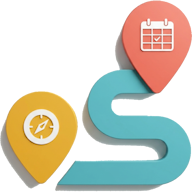
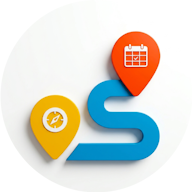
Correction ergonomique lors de l'ajout d'un POI en utilisant le géoréférencement

diff --git a/pvi.html b/pvi.html
@@ -581,9 +581,9 @@
   <script>
     if ('serviceWorker' in navigator) {
       window.addEventListener('load', () => {
-        navigator.serviceWorker.register('./sw.js', { scope: './' })
-        .then((reg) => console.log('Service Worker enregistré avec succès ! Scope:', reg.scope))
-        .catch((err) => console.error('Échec enregistrement Service Worker:', err));
+        navigator.serviceWorker.register('sw.js').catch(err => {
+          console.log('Service Worker skipped/failed', err);
+        });
       });
     }
 
@@ -620,7 +620,7 @@
     let mapMarkers = [];
     let routePolyline = null;
     let mapPickMode = null;
-    let shouldFitBoundsOnce = true; // Drapeau pour exécuter le fitBounds une seule fois au chargement/import
+    let shouldFitBoundsOnce = true;
 
     function saveToLocalStorage() {
       try {
@@ -698,7 +698,6 @@
         });
       }
 
-      // Restauration du mode d'affichage et de l'onglet actif au démarrage
       switchViewMode(appState.viewMode || 'designer');
       switchLeftTab(appState.activeTab || 'structure');
       renderApp();
@@ -1849,7 +1848,6 @@
         routePolyline = L.polyline(allTripCoords, { color: '#6366f1', weight: 4, dashArray: '8, 8', opacity: 0.8 }).addTo(map);
       }
 
-      // --- Cadrage automatique unique au démarrage ou après un import ---
       if (shouldFitBoundsOnce) {
         let allPoints = [];
         if (appState.departurePoint) allPoints.push([appState.departurePoint.lat, appState.departurePoint.lng]);
@@ -1861,7 +1859,7 @@
         if (allPoints.length > 0) {
           map.fitBounds(allPoints, { padding: [50, 50], maxZoom: 13 });
         }
-        shouldFitBoundsOnce = false; // Désactive l'ajustement automatique pour la suite de la navigation
+        shouldFitBoundsOnce = false;
       }
     }
 
@@ -2105,13 +2103,15 @@
       renderApp();
     }
 
-    function openSpotModal() {
+    function openSpotModal(defaultName = '', defaultDesc = '') {
       document.getElementById('spotForm').reset();
       document.getElementById('spotId').value = '';
       document.getElementById('spotPhotoPreview').classList.add('hidden');
       delete document.getElementById('spotForm').dataset.imageBase64;
       document.getElementById('spotModalTitle').innerText = "Ajouter un Spot";
       populateSpotTargetSelect();
+      if (defaultName) document.getElementById('spotName').value = defaultName;
+      if (defaultDesc) document.getElementById('spotDesc').value = defaultDesc;
       openModal('spotModal');
     }
 
@@ -2188,7 +2188,7 @@
       renderApp();
     }
 
-    function openHotelModal() {
+    function openHotelModal(defaultName = '', defaultDesc = '') {
       if (appState.zones.length === 0) {
         alert("Veuillez d'abord créer au moins une zone avant d'ajouter un hôtel !");
         return;
@@ -2199,6 +2199,8 @@
       document.getElementById('hotelModalTitle').innerText = "Ajouter un Hébergement";
       populateHotelZoneSelect();
       document.getElementById('hotelZoneSelect').value = '';
+      if (defaultName) document.getElementById('hotelName').value = defaultName;
+      if (defaultDesc) document.getElementById('hotelDesc').value = defaultDesc;
       openModal('hotelModal');
     }
 
@@ -2268,11 +2270,13 @@
       renderApp();
     }
 
-    function openBonPlanModal() {
+    function openBonPlanModal(defaultName = '', defaultDesc = '') {
       document.getElementById('bonPlanForm').reset();
       document.getElementById('bonPlanId').value = '';
       document.getElementById('bonPlanModalTitle').innerText = "Ajouter un Bon Plan";
       populateBonPlanTargetSelect();
+      if (defaultName) document.getElementById('bonPlanTitle').value = defaultName;
+      if (defaultDesc) document.getElementById('bonPlanDesc').value = defaultDesc;
       openModal('bonPlanModal');
     }
 
@@ -2352,6 +2356,9 @@
         el.onclick = () => {
           const lat = parseFloat(item.lat);
           const lon = parseFloat(item.lon);
+          const shortName = (item.display_name.split(',')[0] || '').replace(/'/g, "\\'");
+          const fullDesc = item.display_name.replace(/'/g, "\\'");
+
           map.setView([lat, lon], 13);
           L.popup()
             .setLatLng([lat, lon])
@@ -2359,9 +2366,9 @@
               <div class="text-xs font-sans p-1.5 space-y-2">
                 <b>${item.display_name.split(',')[0]}</b>
                 <div class="flex gap-1.5">
-                  <button onclick="quickAdd('spot', ${lat}, ${lon})" class="bg-emerald-600 text-white px-2.5 py-1 rounded-lg text-xs">+ Spot</button>
-                  <button onclick="quickAdd('hotel', ${lat}, ${lon})" class="bg-blue-600 text-white px-2.5 py-1 rounded-lg text-xs">+ Hôtel</button>
-                  <button onclick="quickAdd('bonplan', ${lat}, ${lon})" class="bg-amber-600 text-white px-2.5 py-1 rounded-lg text-xs">+ Bon Plan</button>
+                  <button onclick="quickAdd('spot', ${lat}, ${lon}, '${shortName}', '${fullDesc}')" class="bg-emerald-600 text-white px-2.5 py-1 rounded-lg text-xs">+ Spot</button>
+                  <button onclick="quickAdd('hotel', ${lat}, ${lon}, '${shortName}', '${fullDesc}')" class="bg-blue-600 text-white px-2.5 py-1 rounded-lg text-xs">+ Hôtel</button>
+                  <button onclick="quickAdd('bonplan', ${lat}, ${lon}, '${shortName}', '${fullDesc}')" class="bg-amber-600 text-white px-2.5 py-1 rounded-lg text-xs">+ Bon Plan</button>
                 </div>
               </div>
             `)
@@ -2372,11 +2379,11 @@
       });
     }
 
-    function quickAdd(type, lat, lng) {
+    function quickAdd(type, lat, lng, name = '', desc = '') {
       map.closePopup();
-      if (type === 'spot') { openSpotModal(); document.getElementById('spotLat').value = lat; document.getElementById('spotLng').value = lng; }
-      else if (type === 'hotel') { openHotelModal(); document.getElementById('hotelLat').value = lat; document.getElementById('hotelLng').value = lng; }
-      else if (type === 'bonplan') { openBonPlanModal(); document.getElementById('bonPlanLat').value = lat; document.getElementById('bonPlanLng').value = lng; }
+      if (type === 'spot') { openSpotModal(name, desc); document.getElementById('spotLat').value = lat; document.getElementById('spotLng').value = lng; }
+      else if (type === 'hotel') { openHotelModal(name, desc); document.getElementById('hotelLat').value = lat; document.getElementById('hotelLng').value = lng; }
+      else if (type === 'bonplan') { openBonPlanModal(name, desc); document.getElementById('bonPlanLat').value = lat; document.getElementById('bonPlanLng').value = lng; }
     }
 
     function checkCoherence() {
@@ -2728,7 +2735,7 @@
       if (!appState.viewMode) appState.viewMode = 'designer';
       if (!appState.name) appState.name = "Mon Voyage";
 
-      shouldFitBoundsOnce = true; // Activer l'ajustement automatique de la carte pour le nouveau fichier importé
+      shouldFitBoundsOnce = true;
 
       document.getElementById('tripNameInput').value = appState.name;
       document.getElementById('pivotDateInput').value = appState.pivotDate;

diff --git a/sw.js b/sw.js
@@ -1,4 +1,4 @@
-const CACHE_NAME = 'geovoyage-v2';
+const CACHE_NAME = 'geovoyage-v2.1';
 
 // Liste des ressources essentielles à mettre en cache lors de l'installation
 const ASSETS_TO_CACHE = [
